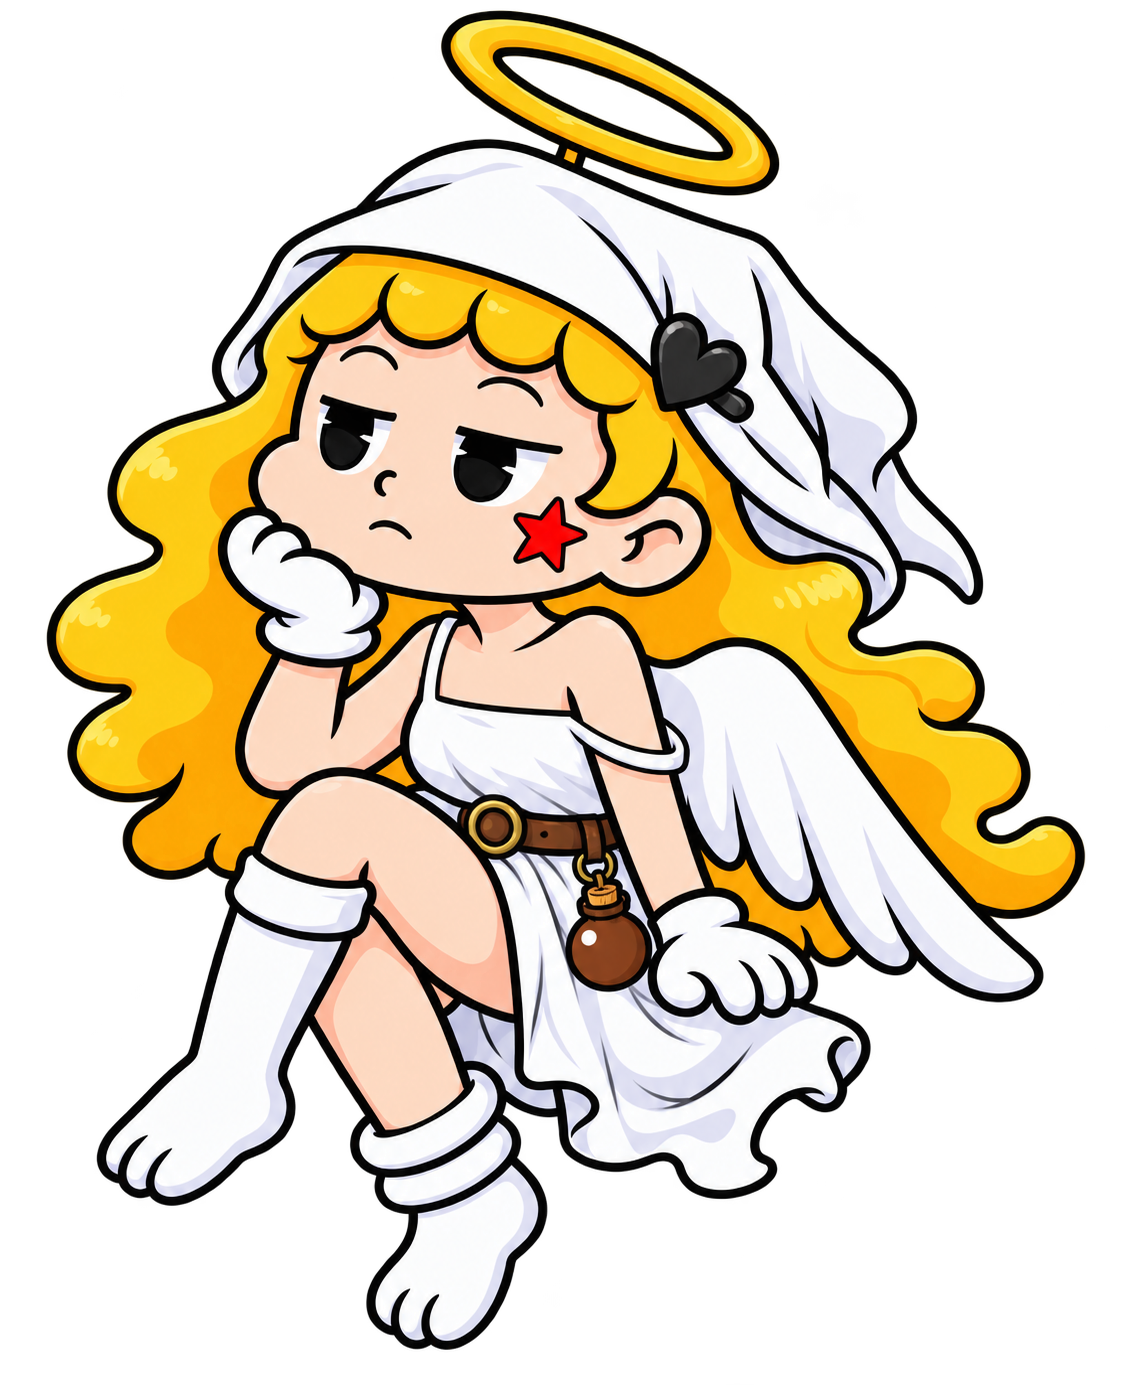
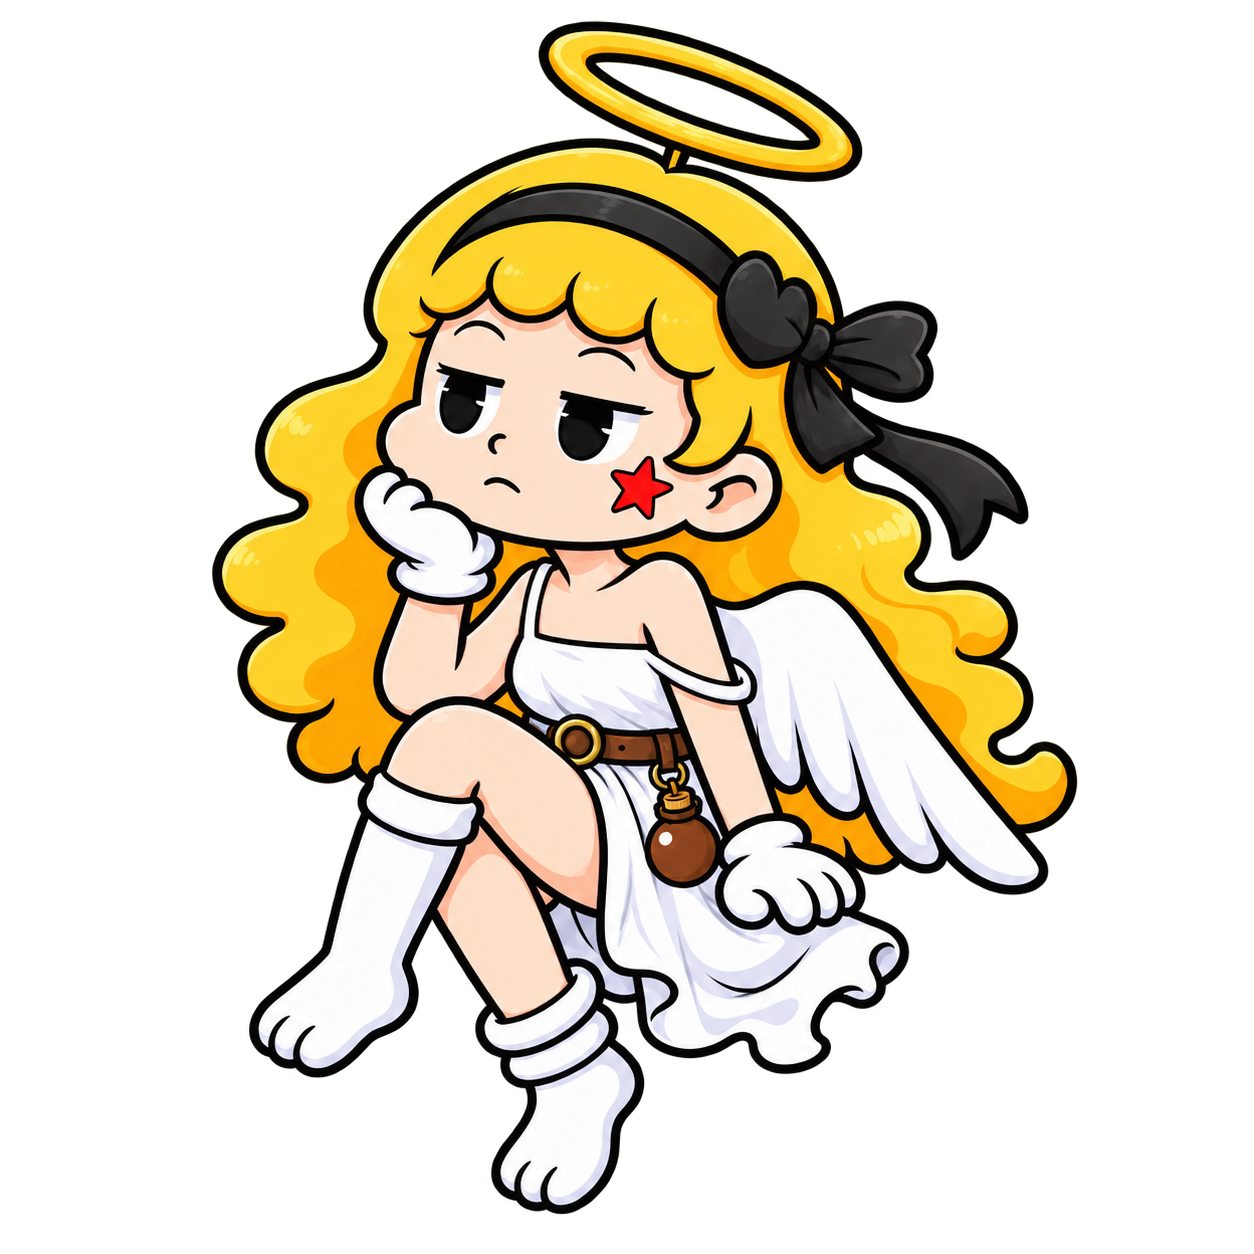
奧林匹亞 demo olympia-holy-42：低分圖示換小鈴鐺／蝴蝶結／新卷軸、兩位天使改回頭帶
- 低分圖示：皮帶→小鈴鐺、小皮靴→蝴蝶結、卷軸換暖黃版
- 左天使：帽子改回黃頭帶，小皮包改成咖啡色小劍插在腰帶內
- 右天使：舊圓臉＋黑頭帶，身體維持吊帶裙＋腰帶藥瓶
- 角色畫面上的大小與位置維持不變

diff --git a/index.html b/index.html
@@ -247,7 +247,7 @@ canvas { display: block; width: 100%; height: 100%; }
  * 美術：使用者核可卡通素材；2026-10-22 最高分換白鴿、低分換暖色圖示（olympia-holy-2）；羽毛、大地色卷軸、簡化聖盾（olympia-holy-3）；其餘高分沿用既有素材。
  * ========================================================== */
 
-const APP_BUILD = 'olympia-holy-38';   // 驗證用識別值：測到的是不是最新版，看這個
+const APP_BUILD = 'olympia-holy-42';   // 驗證用識別值：測到的是不是最新版，看這個
 const GAME_NAME = '奧林匹亞';
 const LOGO_TEXT = '奧林匹亞', LOGO_SUB = 'OLYMPIA';
 
@@ -305,10 +305,10 @@ const SYMBOLS = [
   { name: '聖盾',       emoji: '🛡', color: '#64748b', tier: 'hi' },   // 10 倍聖物組
   { name: '聖水瓶',     emoji: '🧴', color: '#64748b', tier: 'hi' },   // 10 倍聖物組
   { name: '羽毛',       emoji: '🪶', color: '#8a7f6e', tier: 'lo' },   // 低分：土棕灰低飽和（配暖色低分圖示；2026-10-22 橄欖樹枝換羽毛）
-  { name: '卷軸',       emoji: '📜', color: '#7c6f5d', tier: 'lo' },
+  { name: '卷軸',       emoji: '📜', color: '#7c6f5d', tier: 'lo' },   // 2026-10-22 換使用者給的 L5_卷軸.png（暖黃版）
   { name: '蠟燭',       emoji: '🕯', color: '#8b7765', tier: 'lo' },
-  { name: '皮帶',       emoji: '🪢', color: '#7a6a58', tier: 'lo' },   // 2026-10-22 雙耳陶瓶換愛心髮夾 → 再換皮帶（嘗試/L_皮帶C_歪斜.png 逆轉 27.5° 轉正、圓形銅扣，對應兩位天使的腰帶）
-  { name: '小皮靴',     emoji: '👢', color: '#6f6a60', tier: 'lo' },   // 2026-10-22 書本換小皮靴；同日拿掉腳踝扣環（嘗試/L_小皮靴_無扣環.png，和皮帶的銅扣區隔）
+  { name: '小鈴鐺',     emoji: '🔔', color: '#7a6a58', tier: 'lo' },   // 2026-10-22 雙耳陶瓶→愛心髮夾→皮帶→小鈴鐺（使用者給的 L2_小鈴鐺.png）
+  { name: '蝴蝶結',     emoji: '🎀', color: '#6f6a60', tier: 'lo' },   // 2026-10-22 書本→小皮靴→蝴蝶結（使用者給的 L3_蝴蝶結.png）
   { name: '紫十字架',   emoji: '✝', color: '#1d4ed8', wheel: 'blue' },   // 觸發圖示（落地後變藍輪）；程式退回版 emoji ✝（2026-10-22 由寶石之翼換成）
   { name: '金十字架',   emoji: '✝', color: '#7c3aed', wheel: 'gold' },   // 觸發圖示（kind 'gold'＝紅輪）；程式退回版 emoji ✝（2026-10-22 由寶石之翼換成）
 ];
@@ -725,7 +725,7 @@ const ICON_META = [
     ['iconGold', '白鴿', 0.5, 2.0, 0.01, { hint: '最高分：白鴿（盤面與賠率表一起套用）' }],
     ['iconHigh', '武器組', 0.5, 2.0, 0.01, { hint: '15 倍武器組：天使之劍／天使之書' }],
     ['iconMid', '聖物組', 0.5, 2.0, 0.01, { hint: '10 倍聖物組：聖盾／聖水瓶' }],
-    ['iconLow', '低分', 0.5, 2.0, 0.01, { hint: '低分 5 個：羽毛／卷軸／蠟燭／皮帶／小皮靴' }],
+    ['iconLow', '低分', 0.5, 2.0, 0.01, { hint: '低分 5 個：羽毛／卷軸／蠟燭／小鈴鐺／蝴蝶結' }],
     ['iconSix', '十字架', 0.5, 2.0, 0.01, { hint: '金／紫十字架（落地放大 30% 疊在這個之上）' }] ] },
 ];
 function iconTierKey(id) { return id === 0 ? 'iconGold' : id <= 2 ? 'iconHigh' : id <= 4 ? 'iconMid' : id <= 9 ? 'iconLow' : 'iconSix'; }
@@ -1069,7 +1069,7 @@ function syncLayoutDerived() {
  * 區塊 3：美術載入（assets 圖檔優先；缺件時使用程式退回版）
  * ========================================================== */
 const ART = {
-  sym: SYMBOLS.map((s, i) => 'assets/icon_' + i + '.png?v=holy-38'),
+  sym: SYMBOLS.map((s, i) => 'assets/icon_' + i + '.png?v=holy-42'),
   bg:  'assets/bg.png',
   bgFG: 'assets/bg_fg.png',
   frame: 'assets/frame.png',
@@ -1089,8 +1089,8 @@ const ART = {
   anticip: 'assets/ai/ui_05.png',             // 觸發期待（取閃電光框）
   trans: 'assets/ai/transition_01.png',       // 免費遊戲轉場
   big1: 'assets/ai/bigwin_01.png', big2: 'assets/ai/bigwin_02.png', big3: 'assets/ai/bigwin_03.png', big4: 'assets/ai/bigwin_04.png',
-  cupidL: 'assets/ai/character_01.png?v=holy-12',       // 小愛神（左，白色劍士帽、揮手）
-  cupidR: 'assets/ai/character_02_transparent_20261022.png?v=holy-17',       // 小愛神（右，白色修道士帽、托腮坐著；2026-10-22 改吊帶裙（一邊吊帶掉下）＋咖啡色腰帶掛簡單藥瓶、拿掉項鍊）
+  cupidL: 'assets/ai/character_01.png?v=holy-40',       // 小愛神（左，黃頭帶、揮手；2026-10-22 帽子改回頭帶、小皮包改咖啡色小劍插在腰帶內）
+  cupidR: 'assets/ai/character_02_transparent_20261022.png?v=holy-40',       // 小愛神（右，黑頭帶、托腮坐著；2026-10-22 舊圓臉頭帶版＋吊帶裙（一邊吊帶掉下）＋咖啡色腰帶掛藥瓶）
 };
 const FRAME_PAD = 24;
 function isFGScene() {
@@ -1450,7 +1450,7 @@ function forcedWheels(force) {
   }
   return null;
 }
-// 固定牌型（得分級距測試用，兩個模式都生效）：第 1 輪用 {羽毛,卷軸,蠟燭,皮帶}、第 3 輪起用別的圖示
+// 固定牌型（得分級距測試用，兩個模式都生效）：第 1 輪用 {羽毛,卷軸,蠟燭,小鈴鐺}、第 3 輪起用別的圖示
 // → 除了刻意種的線之外，任何線都湊不到 3 連（結果可重現）
 const LINE_FORCES = {
   small: [[1, 1, 3]],                 // 天使之劍 3 連（第 2 列）＝2 倍：得分數字等級 1，不跑分
@@ -2320,8 +2320,8 @@ const ART_GEO = {
   // band＝格區內外緣（相對 R，給倍數字、壓灰、亮框、燃火用）
   wheel: { blue: { cx: 628.5, cy: 620.5, R: 622.0, band: [0.372, 0.93] },   // blue＝紫十字架的輪；2026-10-22 換天使版紫色輪盤（白手套祈禱手），外框改細紫框（無回紋），重量
     red: { cx: 628.0, cy: 620.5, R: 621.2, band: [0.371, 0.93] }, band: [0.39, 0.84] },   // red＝金十字架的輪；2026-10-22 換天使版金色輪盤（白手套祈禱手），外框改細金框（無回紋），重量
-  cupidL: [3, 3, 965, 1173],           // character_01 天使女孩（左、黑髮、白色劍士帽＋黃愛心夾、咖啡色皮腰帶＋小皮囊、手指繃帶、揮手飛著；2026-10-22 腰帶版 971×1178，與前一版同比例）alpha>128 bbox（x, y, w, h）
-  cupidR: [17, 10, 1077, 1355, 1137],    // 右天使去背新圖 1136×1385；前四項為 alpha bbox，末項沿用原顯示基準高度，保持佈局大小
+  cupidL: [10, 2, 1122, 1351, 1173],   // character_01 左天使（黑髮、黃頭帶＋愛心蝴蝶結、咖啡色腰帶插咖啡色小劍；2026-10-22 頭帶木劍版 1139×1381）alpha>128 bbox [x,y,w,h]；末項＝顯示基準高度，沿用前一版 1173 讓畫面上大小不變
+  cupidR: [212, 21, 865, 1193, 1124],   // 右天使（舊圓臉＋黑頭帶，身體為吊帶裙＋腰帶藥瓶；2026-10-22 1254×1254）alpha>128 bbox [x,y,w,h]；末項＝顯示基準高度（前一版人物可見高 1339×1137/1355≈1124），畫面上大小不變
   // ui_02 FG 進入介面（全幅）：拱形標題匾、米白大面板、綠／紅兩顆按鈕；blank＝面板空白處（不提供抽籤時蓋掉按鈕用），ty＝面板內各行文字的 y
   fgIntro: { title: [468, 196], panel: [150, 260, 645, 235], start: { x: 152, y: 498, w: 303, h: 100 },
     deal: { x: 470, y: 498, w: 310, h: 100 }, blank: [148, 385, 640, 108], blankDst: [148, 494, 640, 110],
